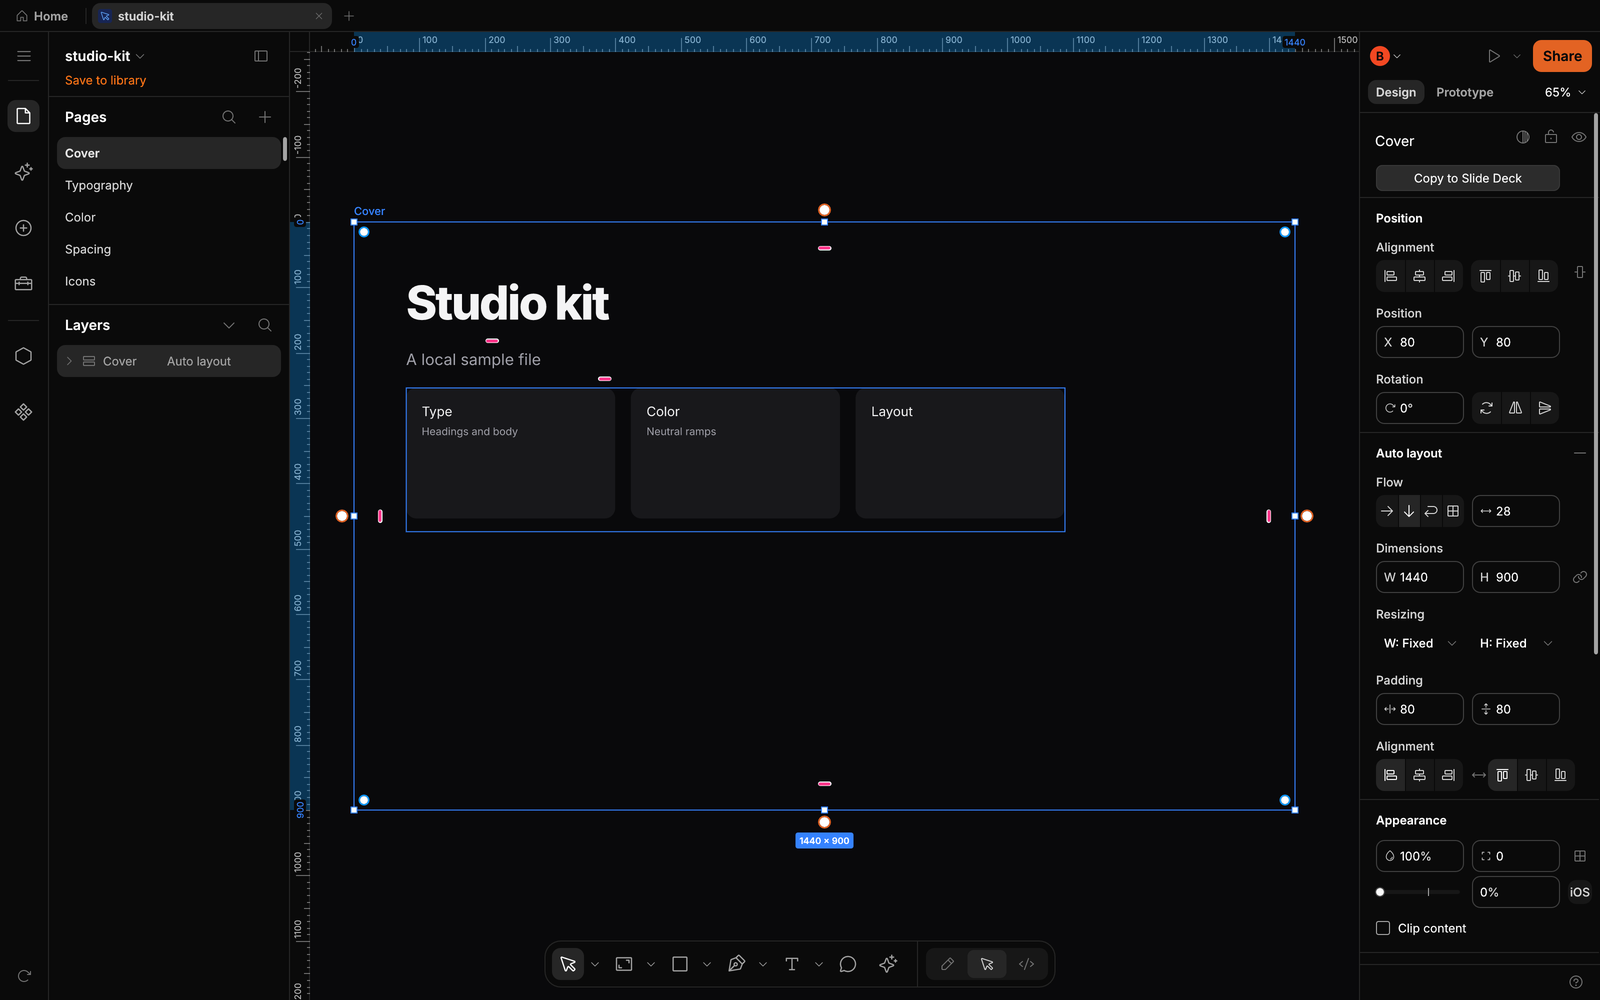
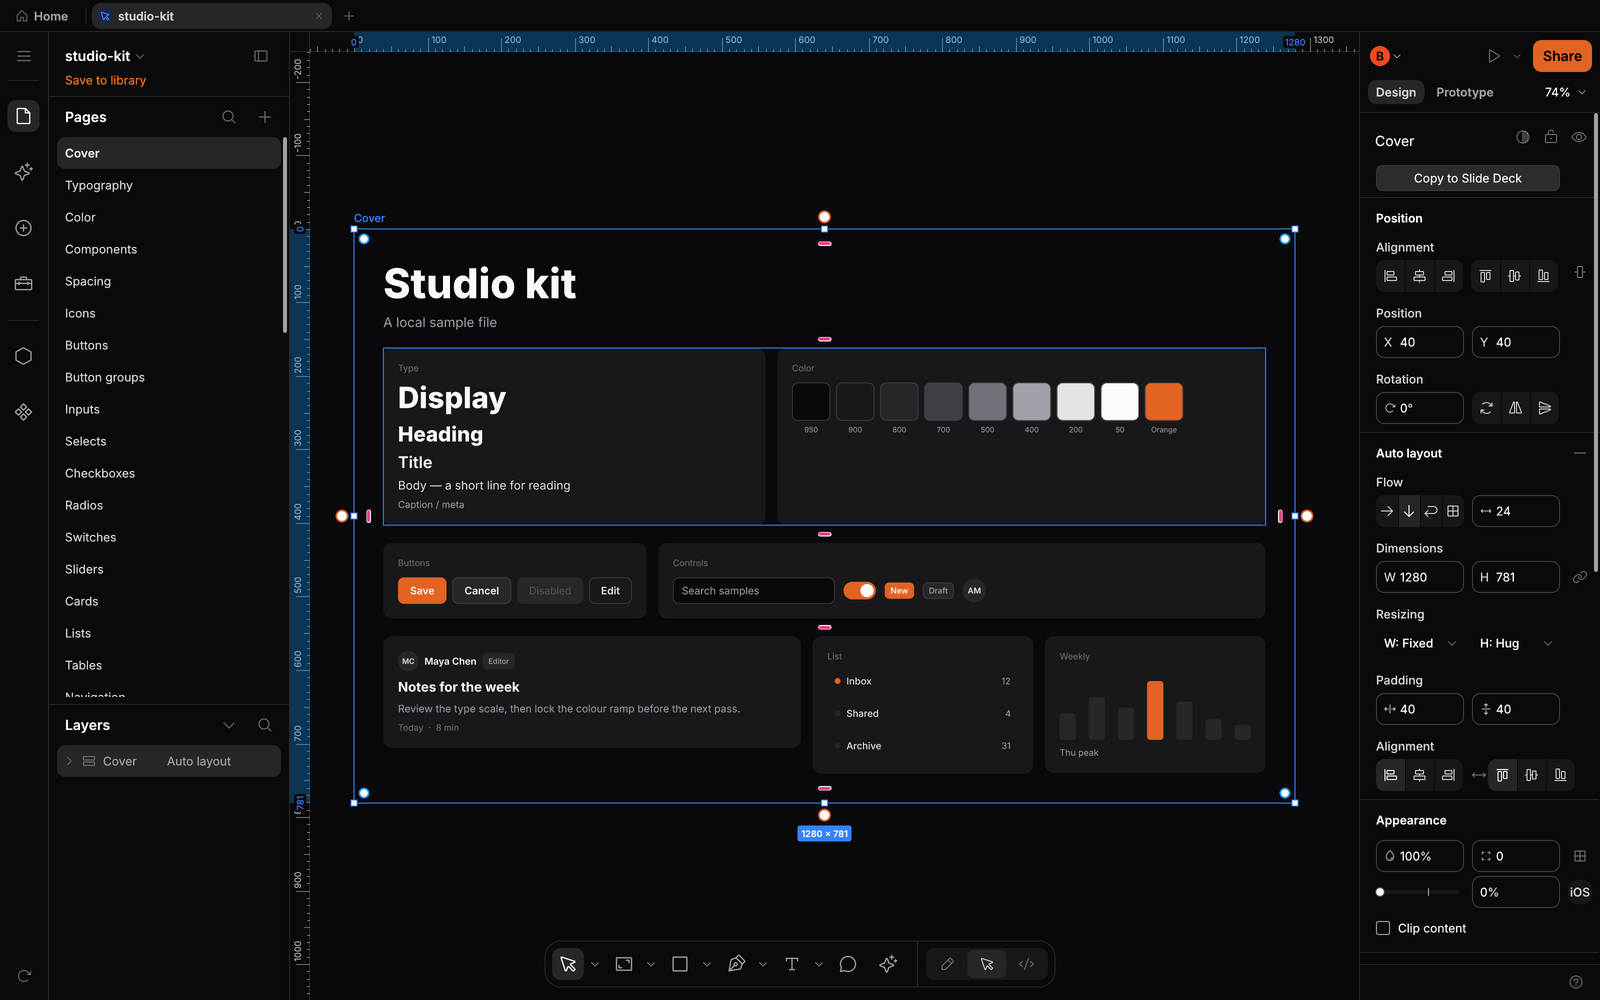
docs: use the final Studio captures on the open-.fig guide
Replace studio-fig-open.png with Design's final Cover shot (a full
kit on the Cover page) and add studio-kit-type.png, the Typography
page. Both are web-sized 1600x1000 copies with alt and caption
"design:os by Jang".

The Cover shot stays after the intro. The Typography shot sits after
the Step 3 inspect list, before the headless --inspect-json command,
away from the Untitled UI and shadcn figures. The rejected
components, tall pages-list, and evidence files are not included.

diff --git a/docs/guides/open-fig-without-figma/index.md b/docs/guides/open-fig-without-figma/index.md
@@ -52,6 +52,11 @@ Big files open as one document. The Untitled UI PRO v8.0 kit, a 336 MB file, ope
 - The **Variables** view lists collections, modes and alias bindings. Open it from the left rail, or with `designos-studio file.fig --panel variables`.
 - **Dev Mode** (`Shift+D`) prints code for the selection in eight targets: CSS, Tailwind, React, SwiftUI, UIKit, Compose, Android XML and HTML.
 
+<figure>
+  <img src="{{ '/images/studio-kit-type.png' | relative_url }}" width="1600" height="1000" alt="design:os by Jang" decoding="async">
+  <figcaption>design:os by Jang</figcaption>
+</figure>
+
 To check a file without opening the window, run:
 
 ```sh
